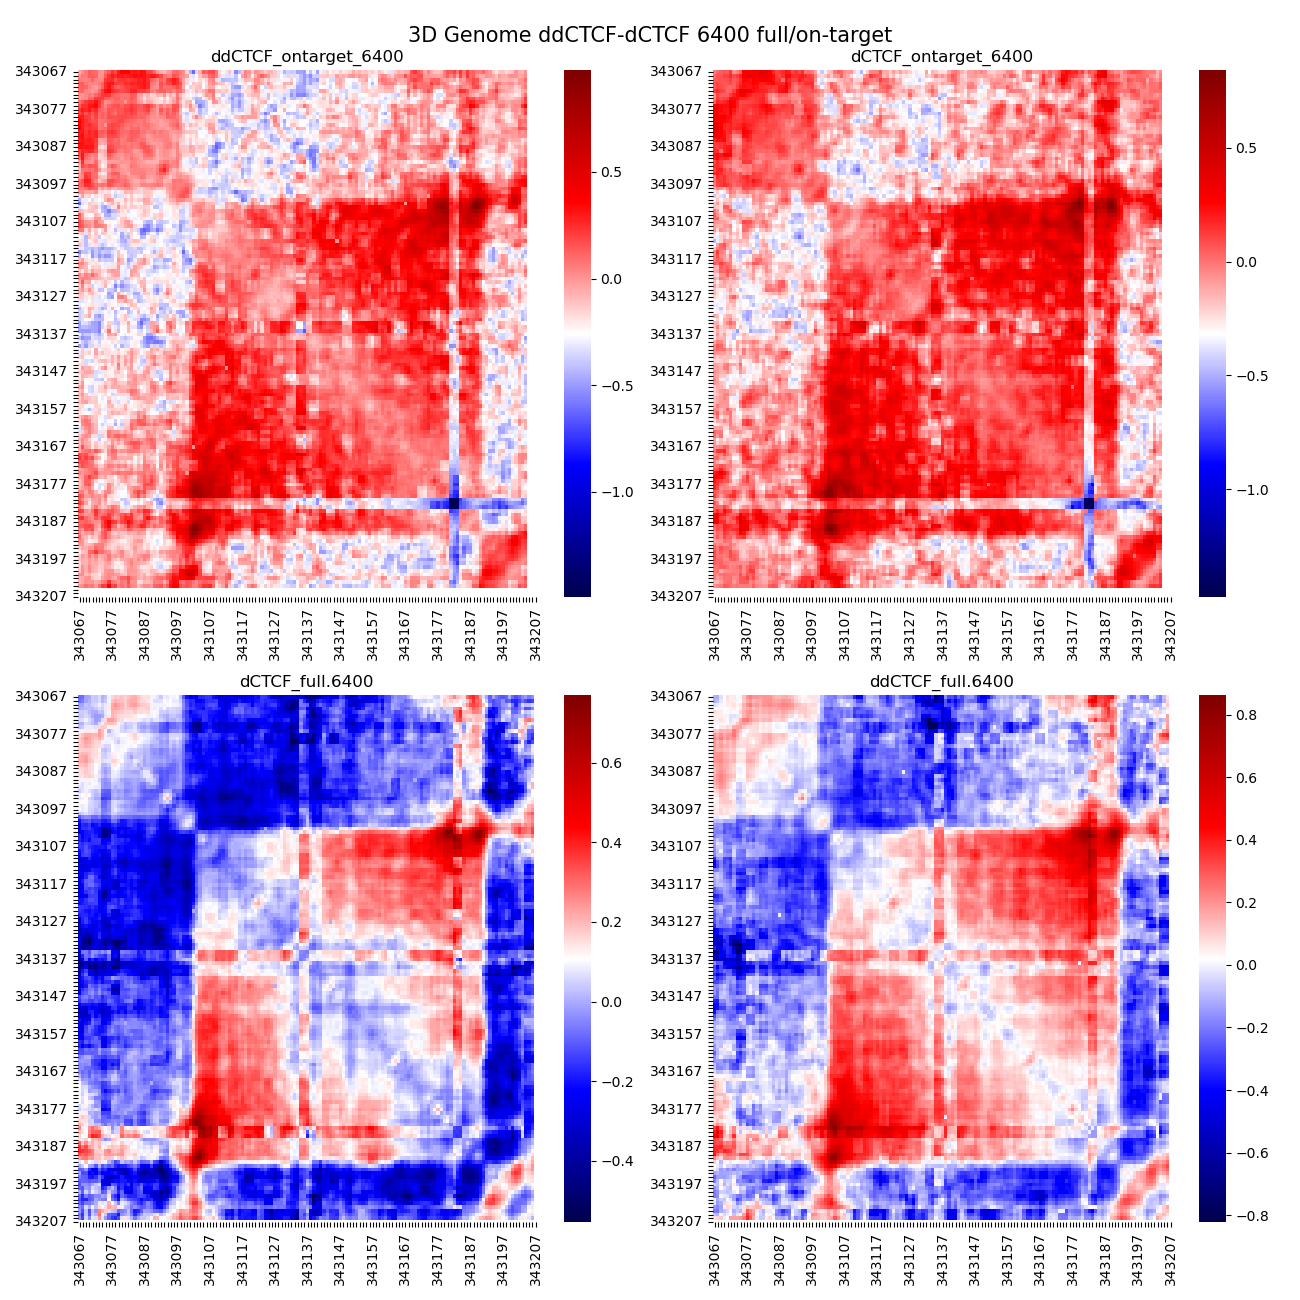
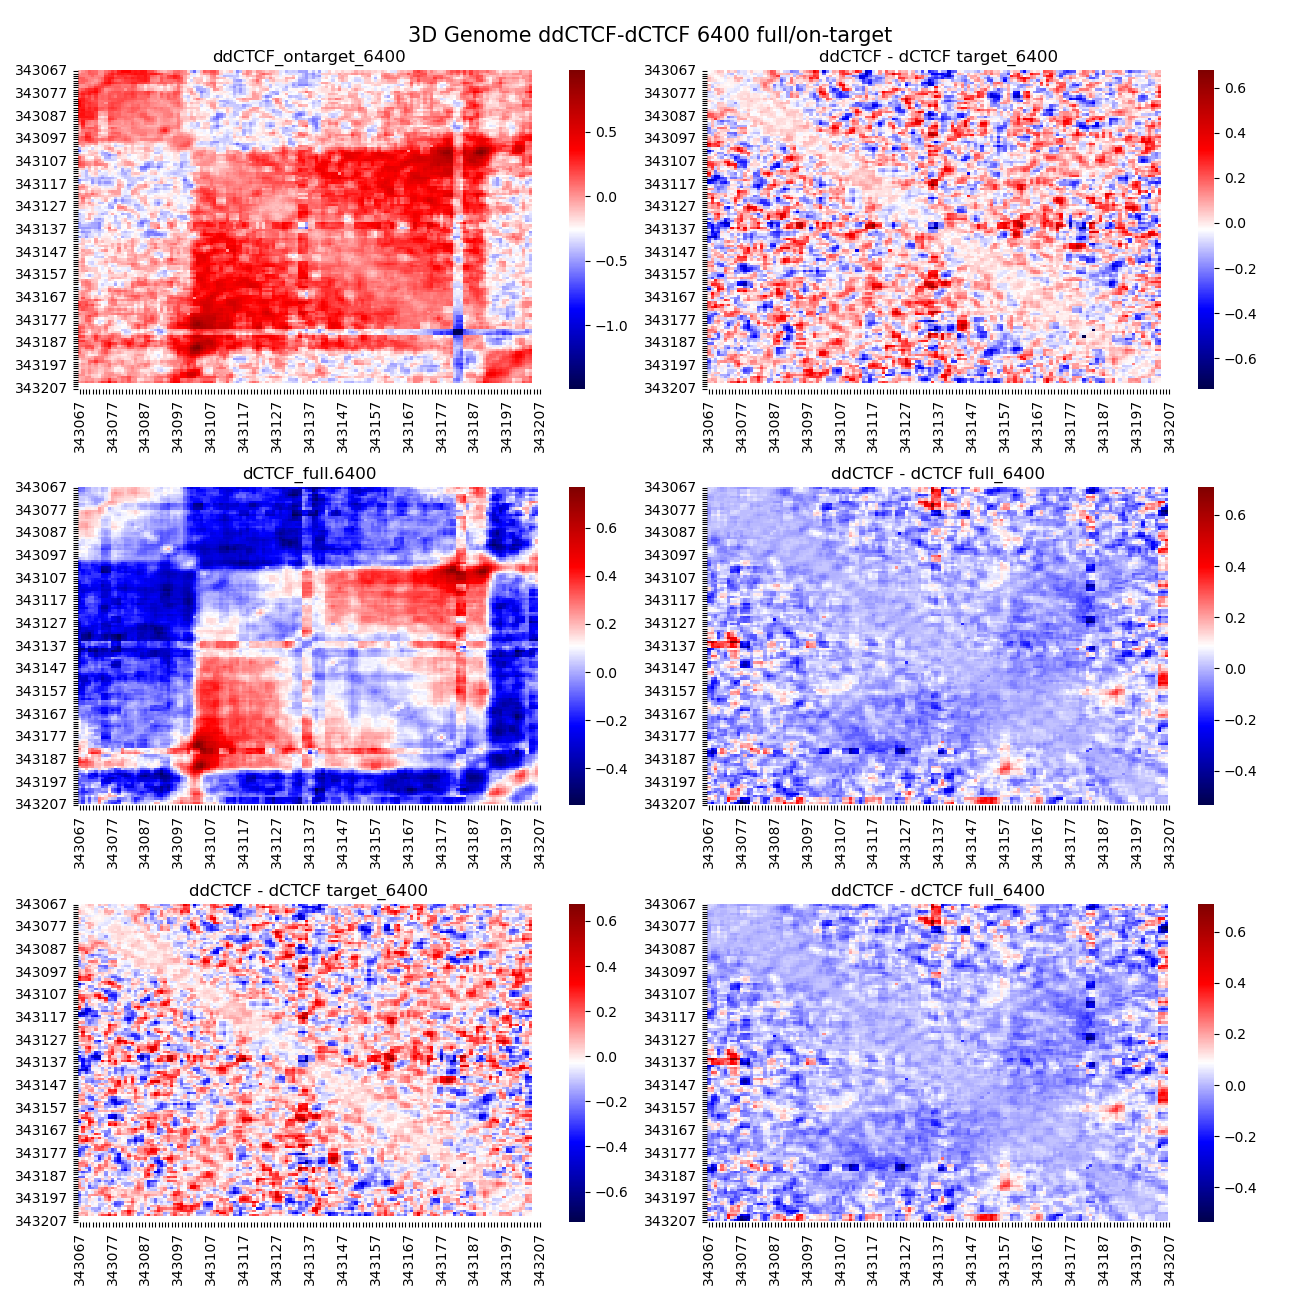
update 3x2 3d genome

diff --git a/week6/load_data.py b/week6/load_data.py
@@ -136,8 +136,16 @@ T4.plot()
 
 
 #%%
-obs = [T1,T2,T3,T4]
-fig, axs = plt.subplots(2,2,figsize=[13,13])
+
+TC = T2
+TC.final_matrix = (T1.final_matrix-TC.final_matrix)
+TC.title = 'ddCTCF - dCTCF target_6400'
+TD = T4
+TD.title = 'ddCTCF - dCTCF full_6400'
+TD.final_matrix = (T3.final_matrix-TD.final_matrix)
+
+obs = [T1,T2,T3,T4,TC,TD]
+fig, axs = plt.subplots(3,3,figsize=[13,13])
 fig.suptitle('3D Genome ddCTCF-dCTCF 6400 full/on-target',fontsize=15)
 for i,ax in enumerate(numpy.ravel(axs)):
     ob = obs[i]
